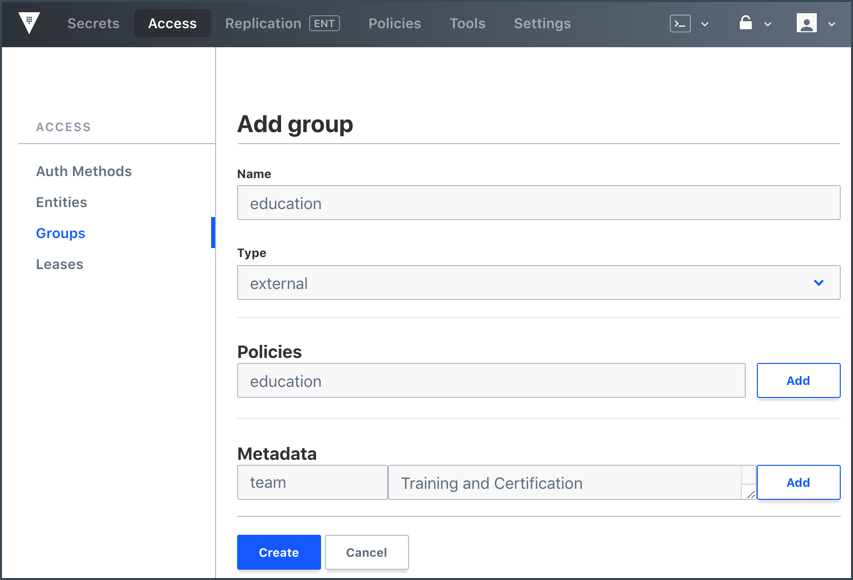
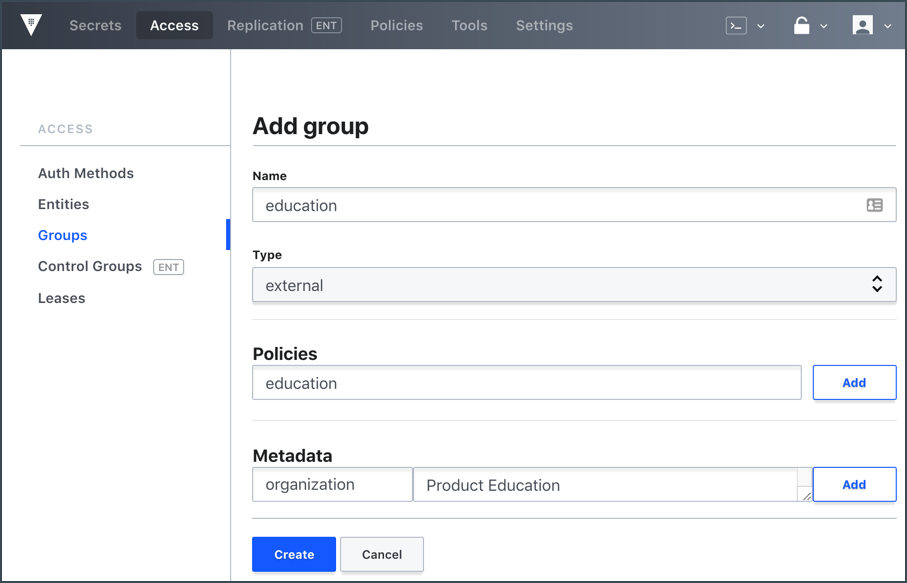
Incorporate the feedback

diff --git a/website/source/guides/identity/identity.html.md b/website/source/guides/identity/identity.html.md
@@ -208,10 +208,10 @@ attached.
     # Create base policy
     $ vault policy write base base.hcl
 
-    # Create base policy
+    # Create test policy
     $ vault policy write test test.hcl
 
-    # Create base policy
+    # Create team-qa policy
     $ vault policy write team-qa team-qa.hcl
 
     # List all policies to verify that 'base', 'test' and 'team-qa' policies exist
@@ -627,15 +627,19 @@ $ vault login -method=userpass username=bob password=training
 
 Key                    Value
 ---                    -----
-token                  eaad830e-b2d5-0ecb-284c-a7266c113424
-token_accessor         b0787781-3807-f32f-4622-8d75e69baf4b
+token                  ac318416-0dc1-4311-67e4-b58381c86fde
+token_accessor         79cced7b-51df-9523-920f-a1579687516b
 token_duration         768h
 token_renewable        true
 token_policies         ["default" "test"]
-...
+identity_policies      ["base"]
+policies               ["base" "default" "test"]
+token_meta_username    bob
 ```
 
-Upon a successful authentication, a token will be returned.
+> Upon a successful authentication, a token will be returned. Notice that the
+output displays **`token_policies`** and **`identity_policies`**. The generated
+token has both `test` and `base` policies are attached.
 
 The `test` policy grants CRUD operations on the `secret/test` path.  
 Test to make sure that you can write secrets in the path.
@@ -696,11 +700,19 @@ $ curl --request POST \
      "default",
      "test"
    ],
+   "token_policies": [
+      "default",
+      "test"
+    ],
+    "identity_policies": [
+      "base"
+    ],
    ...
 ```
 
 > Upon a successful authentication, a token will be returned. Notice that the
-generated token is attached with `test` policy as well as `base`.
+output displays **`token_policies`** and **`identity_policies`**. The generated
+token has both `test` and `base` policies are attached.
 
 The `test` policy grants CRUD operations on the `secret/test` path. Test
 to make sure that you can write secrets in the path.
@@ -913,27 +925,27 @@ and/or `member_group_ids`.
 ### <a name="step4"></a>Step 4: Create an External Group
 
 It is common for organizations to enable auth methods such as LDAP, Okta and
-perhaps GitHub to handle the Vault user authentication. A user may belong to one
-or more groups defined within the identity provider. Also, the Vault server may
-have one or more auth methods enabled.
+perhaps GitHub to handle the Vault user authentication, and individual user's
+group memberships are defined within those identity providers.
 
 In order to manage the group-level authorization, you can create an external
-group to link Vault with the external identity provider (auth provider).
+group to link Vault with the external identity provider (auth provider) and
+attach appropriate policies to the group.
 
 #### Example Scenario
 
-Any user who belongs to **`certification`** and **`training`** teams in GitHub
-organization, **`example-inc`** are automatically a member of `education` group
-and permitted to perform all operations against the `secret/education` path.
+Any user who belongs to **`training`** team in GitHub organization,
+**`example-inc`** are permitted to perform all operations against the
+`secret/education` path.
 
 **NOTE:** This scenario assumes that the GitHub organization, `example-inc`
-exists as well as `certification` and `training` team within the organization.
+exists as well as `training` team within the organization.
 
 ### CLI Command
 
-
 ```shell
 # Write a new policy file
+# If you are running KV v2, set the path to "secret/data/education" instead
 $ tee education.hcl <<EOF
 path "secret/education" {
   capabilities = [ "create", "read", "update", "delete", "list" ]
@@ -957,25 +969,22 @@ $ vault write auth/github/config organization=example-inc
 $ vault write identity/group name="education" \
        policies="education" \
        type="external" \
-       metadata=organization="Training and Certification"
+       metadata=organization="Product Education"
 
 # Create a group alias where canonical_id is the group ID
 # 'name' is the actual GitHub team name (NOTE: Use slugified team name.)
 $ vault write identity/group-alias name="training" \
        mount_accessor=$(cat accessor.txt) \
        canonical_id="<group_ID>"
-
-# Repeat the step to add certification team to education group
-$ vault write identity/group-alias name="certification" \
-      mount_accessor=$(cat accessor.txt) \
-      canonical_id="<group_ID>"
 ```
+
 
 
 #### API call using cURL
 
 ```shell
 # API request payload containing stringfied policy
+# If you are running KV v2, set the path to "secret/data/education" instead
 $ cat payload-pol.json
 {
   "policy": "path \"secret/education\" {\n capabilities = [\"create\", \"read\", \"delete\", \"update\", \"list\"]\n }"
@@ -1018,7 +1027,7 @@ $ tee payload-edu.json <<<EOF
    "policies": ["education"],
    "type": "external",
    "metadata": {
-     "organization": "Training and Certification"
+     "organization": "Product Education"
    }
 }
 EOF
@@ -1054,28 +1063,15 @@ $ curl --header "X-Vault-Token: ..." \
        --request POST \
        --data @payload-training.json \
        http://127.0.0.1:8200/v1/identity/group-alias | jq
-
-# API request msg payload to create a group aliases, certification
-$ tee payload-cert.json <<EOF
-{
- "canonical_id": "<GROUP_ID>",
- "mount_accessor": "auth_github_XXXXX",
- "name": "certification"
-}
-EOF
-
-# Create 'certification' group alias
-$ curl --header "X-Vault-Token: ..." \
-       --request POST \
-       --data @payload-cert.json \
-       http://127.0.0.1:8200/v1/identity/group-alias | jq
 ```
 
 #### Web UI
 
 1. Click the **Policies** tab, and then select **Create ACL policy**.
 
-1. Enter **`education`** in the **Name** field, and enter the following policy in the **Policy** text editor, and then click **Create Policy**.
+1. Enter **`education`** in the **Name** field, and enter the following policy
+in the **Policy** text editor, and then click **Create Policy**. (**NOTE:** If
+you are running KV v2, set the path to **`secret/data/education`** instead.)
 
     ```plaintext
     path "secret/education" {
@@ -1089,8 +1085,6 @@ $ curl --header "X-Vault-Token: ..." \
 
 1. Select **GitHub** from the **Type** drop-down menu, and then enter
 **`example-inc`** in the **Organization** field.  
-
-    ![Create Policy](/assets/images/vault-entity-8.png)
 
 1. Click **Enable Method**.
 
@@ -1109,14 +1103,11 @@ $ curl --header "X-Vault-Token: ..." \
 
 1. Click **Create**.
 
-1. Repeat the step to add **`certification`** team to the **`education`** group.
-
 <br>
 
-> **Summary:** At this point, any GitHub user who belongs to either
-`certification` or `training` team within the `example-inc` organization can
-authenticate with Vault. The generated token for the user has `education` policy
-attached.
+> **Summary:** At this point, any GitHub user who belongs to either `training`
+team within the `example-inc` organization can authenticate with Vault. The
+generated token for the user has `education` policy attached.
 
 
 ## Next steps
